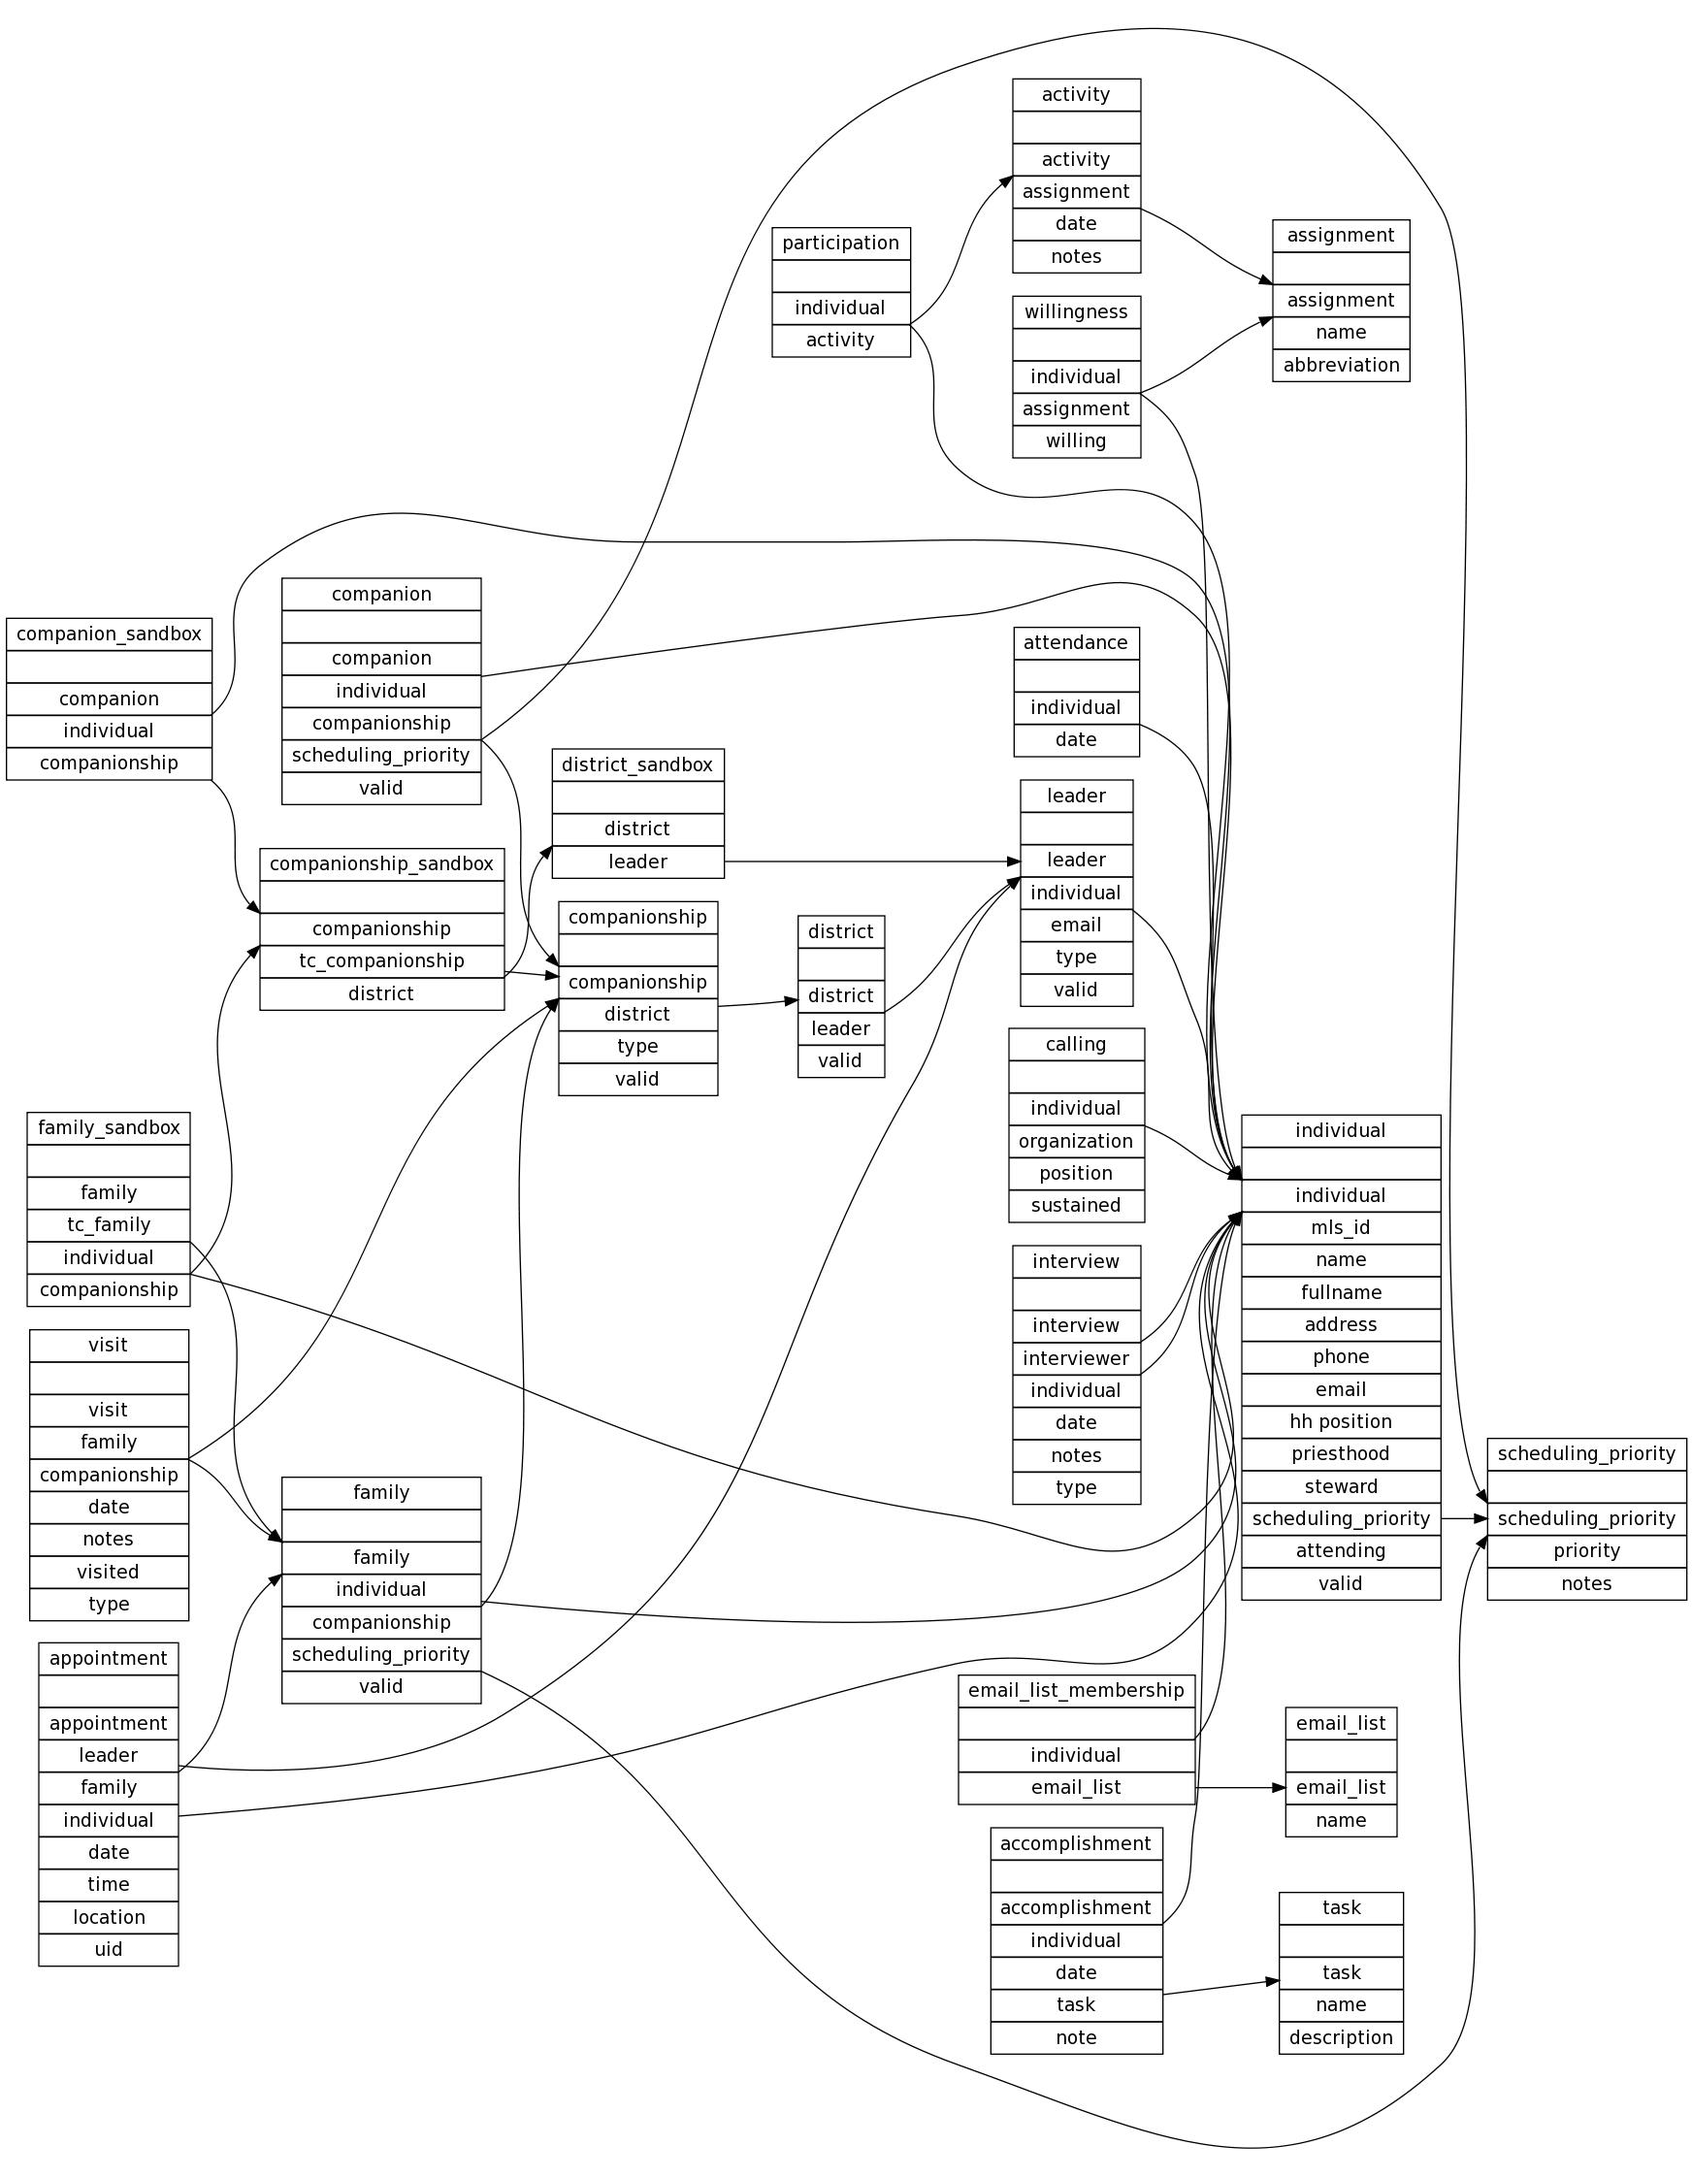
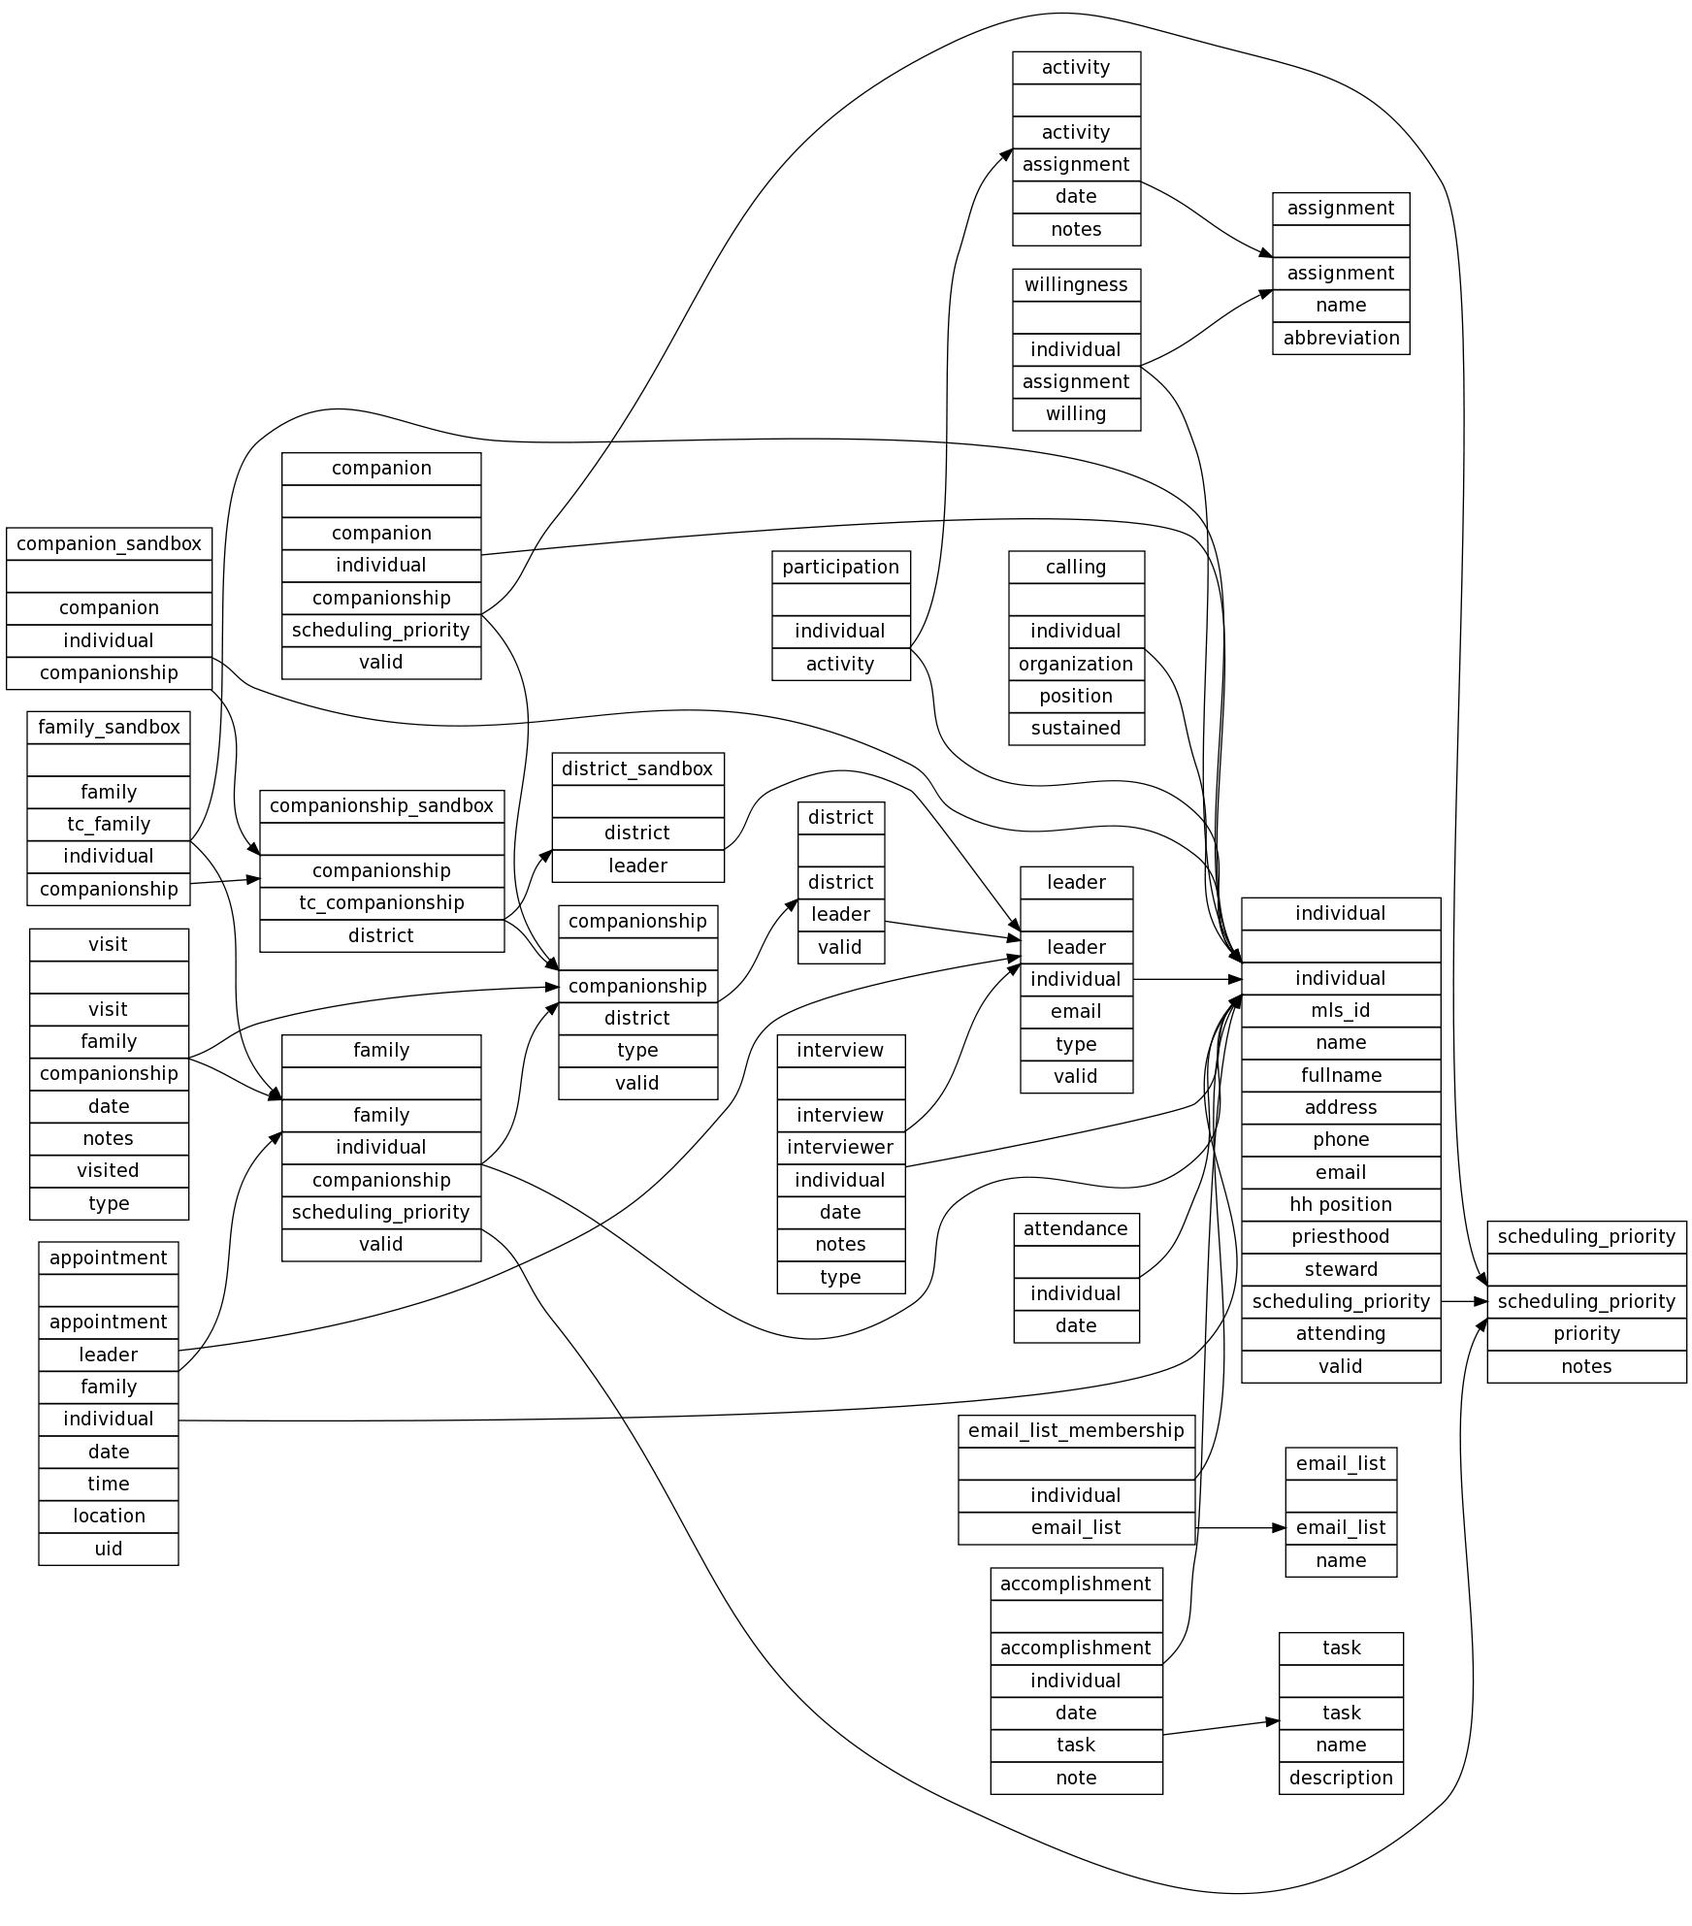
change tc_interview.interviewer to point to tc_leader.leader instead of tc_individual.individual

diff --git a/inc/class.tc.inc.php b/inc/class.tc.inc.php
@@ -2959,12 +2959,12 @@ class tc
 		if($this->yearly_ppi_interviewer == 3) { $sql .= " (tl.type='P' OR tl.type='C' OR tl.type='S')"; }
 		$this->db2->query($sql,__LINE__,__FILE__);
 		while ($this->db2->next_record()) {
-			$indiv = $this->db2->f('individual');
+			$leader = $this->db2->f('leader');
 			$interviewer_name = $this->db2->f('name');
-			if($indiv == $interviewer) {
-				$this->t->set_var('interviewer',$indiv . ' selected');
+			if($leader == $interviewer) {
+				$this->t->set_var('interviewer',$leader . ' selected');
 			} else {
-				$this->t->set_var('interviewer',$indiv);
+				$this->t->set_var('interviewer',$leader);
 			}
 			#print "indiv: $indiv interviewer: $interviewer<br>";
 			$this->t->set_var('interviewer_name',$interviewer_name);
@@ -3285,12 +3285,12 @@ class tc
 		$sql = "SELECT * FROM tc_leader AS tl JOIN (tc_individual AS ti, tc_district AS td) WHERE tl.individual=ti.individual AND tl.leader=td.leader AND tl.valid=1 AND (tl.type='P' OR tl.type='C' OR tl.type='D' OR td.district!=0)";
 		$this->db2->query($sql,__LINE__,__FILE__);
 		while ($this->db2->next_record()) {
-			$indiv = $this->db2->f('individual');
+			$leader = $this->db2->f('leader');
 			$interviewer_name = $this->db2->f('name');
-			if($indiv == $interviewer) {
-				$this->t->set_var('interviewer',$indiv . ' selected');
+			if($leader == $interviewer) {
+				$this->t->set_var('interviewer',$leader . ' selected');
 			} else {
-				$this->t->set_var('interviewer',$indiv);
+				$this->t->set_var('interviewer',$leader);
 			}
 			$this->t->set_var('interviewer_name',$interviewer_name);
 			$this->t->fp('int_list','interviewer_list',True);
